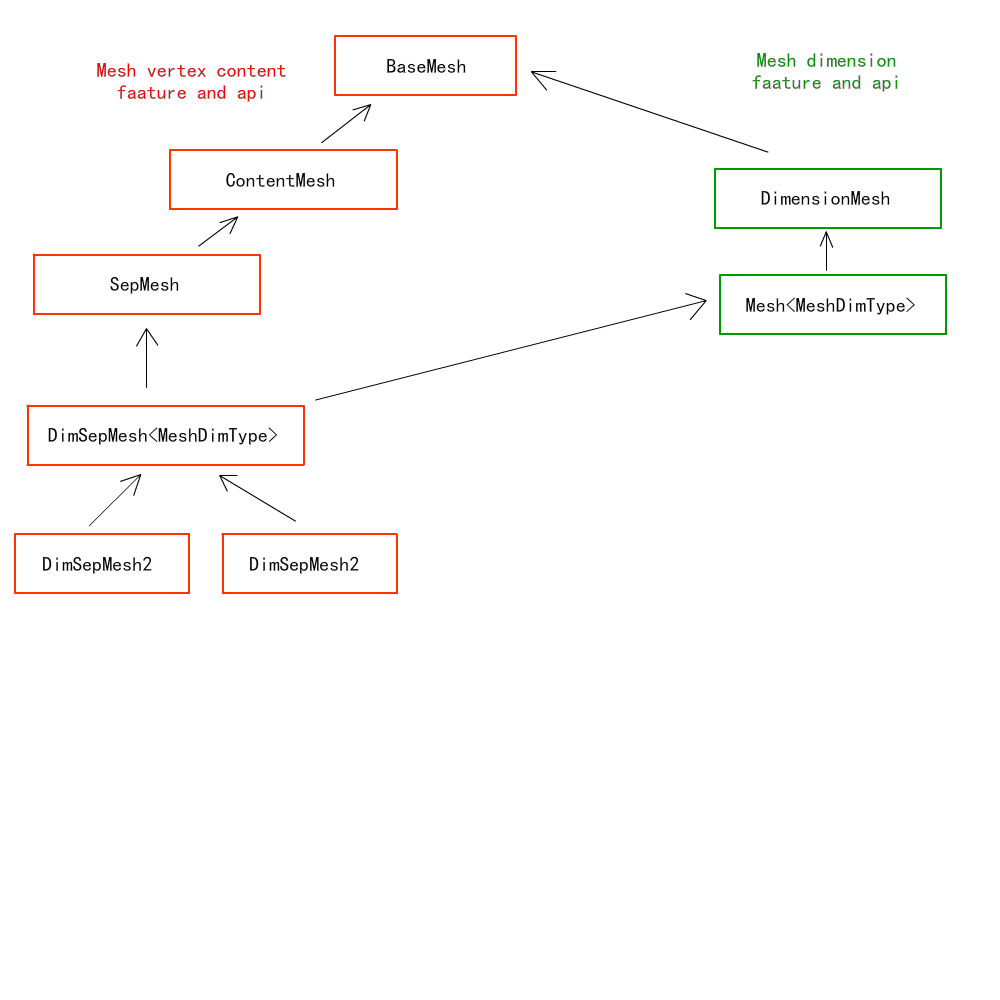
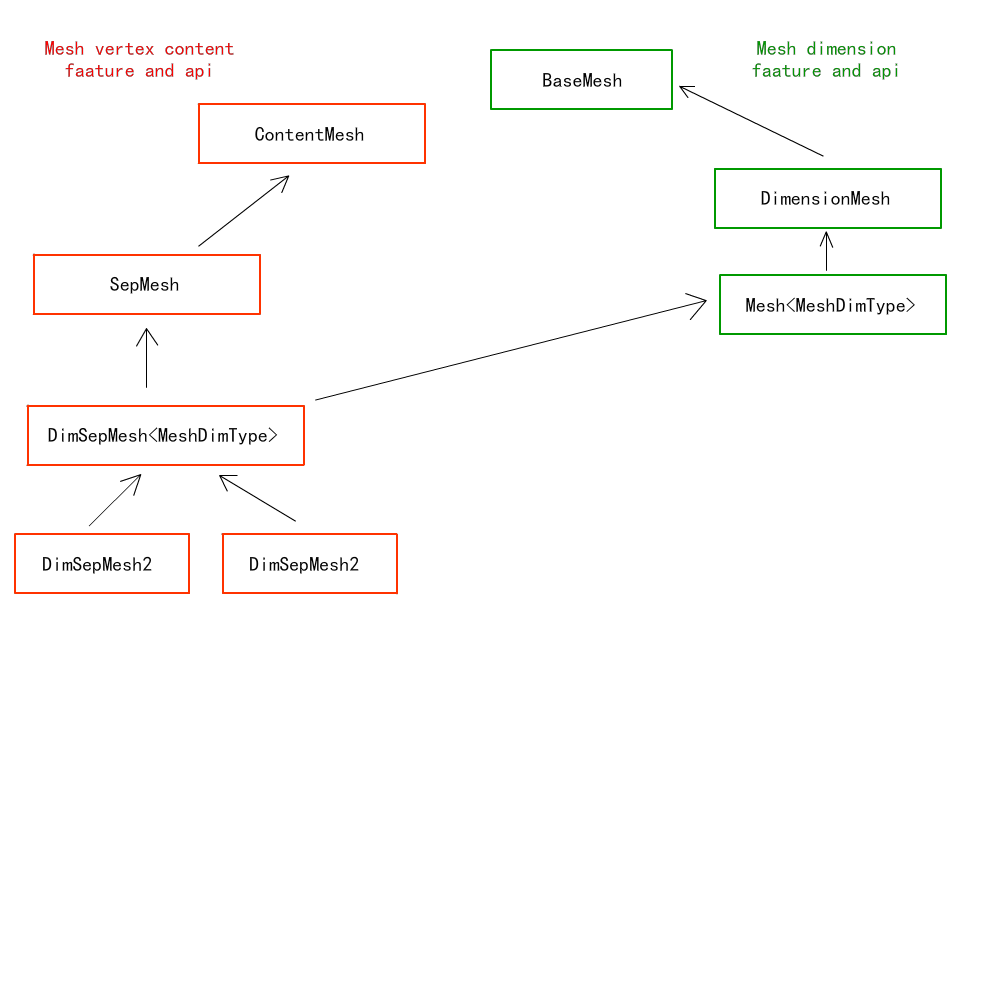
Change Mesh classes inherience.

diff --git a/framework/graphics/mesh/mesh.hpp b/framework/graphics/mesh/mesh.hpp
@@ -69,10 +69,11 @@ namespace vg
 	};
 	
 
-	class ContentMesh : public BaseMesh
+	class ContentMesh
 	{
 	public:
         ContentMesh();
+		virtual ~ContentMesh();
 		const std::shared_ptr<VertexData> &getVertexData() const;
 		const std::shared_ptr<IndexData> &getIndexData() const;
 		virtual uint32_t getSubMeshCount() const;

diff --git a/framework/graphics/mesh/mesh.cpp b/framework/graphics/mesh/mesh.cpp
@@ -16,9 +16,13 @@ namespace vg
 	}
 
 	ContentMesh::ContentMesh()
-	    : BaseMesh()
-		, m_pVertexData(new VertexData())
+	    : m_pVertexData(new VertexData())
 		, m_pIndexData(new IndexData())
+	{
+
+	}
+
+	ContentMesh::~ContentMesh()
 	{
 
 	}
